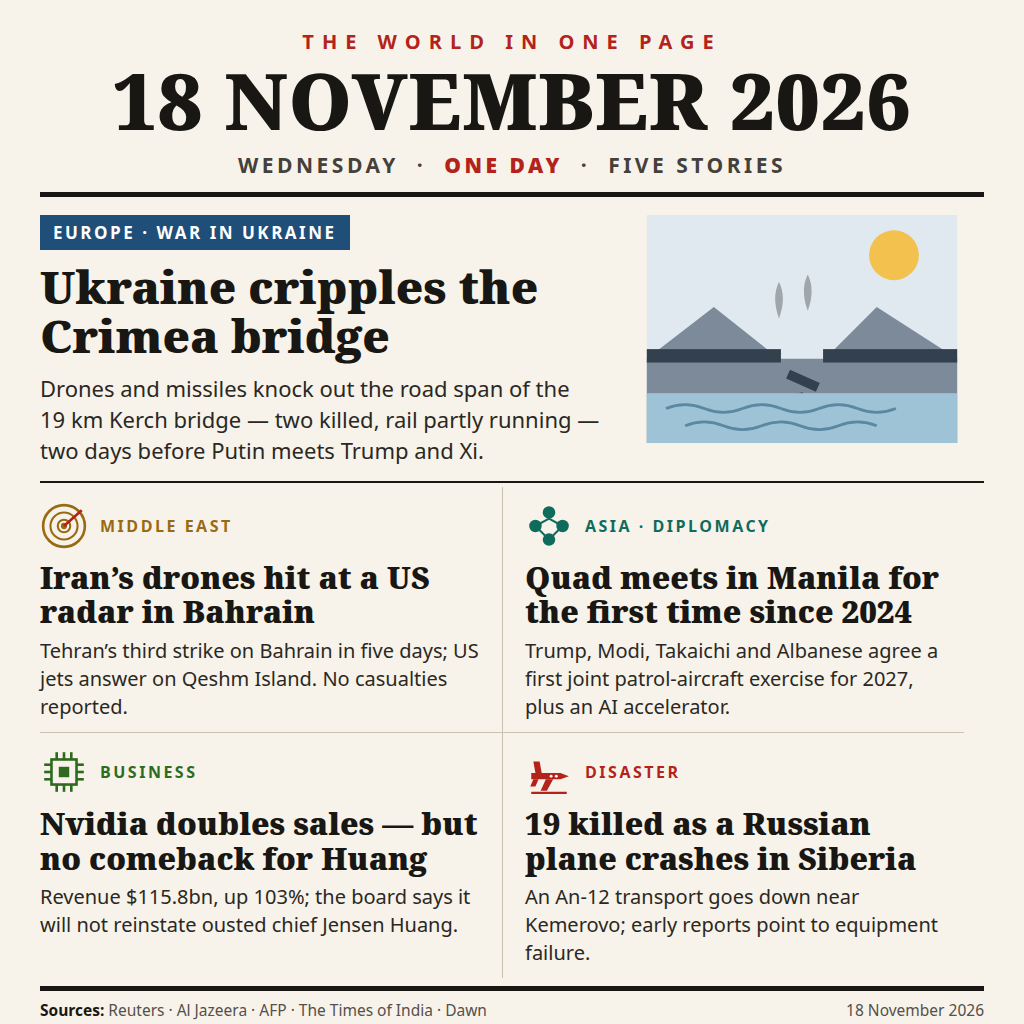
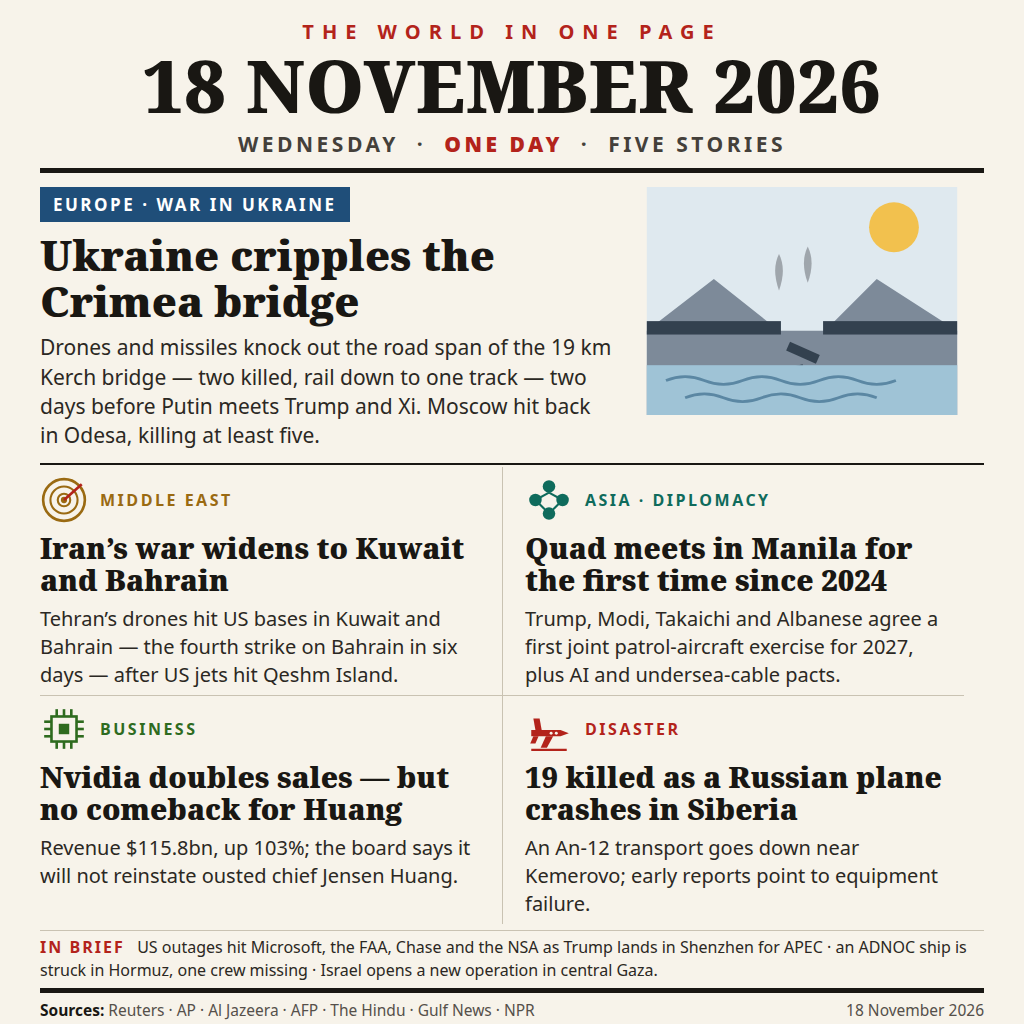
Refresh: full day of 18 November 2026 news
- Lead: Kerch bridge road span destroyed, rail down to one track;
  Russia hits back in Odesa, killing at least five
- Middle East: Iran's war widens to Kuwait and Bahrain (fourth
  strike on Bahrain in six days) after US jets hit Qeshm Island
- Quad: first joint patrol-aircraft exercise for 2027, plus AI and
  undersea-cable pacts
- In brief: US outages (Microsoft, FAA, Chase, NSA), Trump lands
  in Shenzhen for APEC, ADNOC ship struck in Hormuz, Israel opens
  a new operation in central Gaza
- Re-rendered entry.png (1024x1024, 212546 bytes) from build/news.html
  with headless Chrome; verified legible, no overlap, footer intact
- main.ts run twice: byte-identical outputs matching entry.png

Changed region(s): [[0.0312, 0.0, 0.9688, 1.0]]

diff --git a/build/news.html b/build/news.html
@@ -12,28 +12,28 @@
     font-family: "Noto Sans", "DejaVu Sans", sans-serif;
     -webkit-font-smoothing: antialiased;
   }
-  .page { width: 1024px; height: 1024px; padding: 28px 40px 20px 40px; }
+  .page { width: 1024px; height: 1024px; padding: 18px 40px 14px 40px; }
 
   /* ---------- masthead ---------- */
-  .masthead { text-align: center; border-bottom: 5px solid #191713; padding-bottom: 13px; }
+  .masthead { text-align: center; border-bottom: 5px solid #191713; padding-bottom: 10px; }
   .masthead .kicker {
     font-size: 20px; letter-spacing: 8px; font-weight: 700; color: #b3231b;
     text-transform: uppercase;
   }
   .masthead h1 {
     font-family: "Noto Serif", Georgia, serif;
-    font-size: 78px; line-height: 1.02; font-weight: 900; letter-spacing: 1px;
-    margin-top: 6px;
+    font-size: 72px; line-height: 1.02; font-weight: 900; letter-spacing: 1px;
+    margin-top: 4px;
   }
   .masthead .sub {
-    margin-top: 10px; font-size: 21px; letter-spacing: 3.5px; font-weight: 700;
+    margin-top: 8px; font-size: 21px; letter-spacing: 3.5px; font-weight: 700;
     text-transform: uppercase; color: #44403a;
   }
   .masthead .sub b { color: #b3231b; }
 
   /* ---------- lead story ---------- */
   .lead {
-    display: flex; margin-top: 18px; padding-bottom: 14px;
+    display: flex; margin-top: 14px; padding-bottom: 12px;
     border-bottom: 2px solid #191713;
   }
   .lead .text { width: 600px; padding-right: 26px; }
@@ -44,15 +44,15 @@
   }
   .lead h2 {
     font-family: "Noto Serif", Georgia, serif;
-    font-size: 46px; line-height: 1.08; font-weight: 900; margin-top: 12px;
+    font-size: 42px; line-height: 1.08; font-weight: 900; margin-top: 10px;
   }
-  .lead p { font-size: 22px; line-height: 1.42; margin-top: 12px; color: #2b2823; }
+  .lead p { font-size: 21px; line-height: 1.4; margin-top: 10px; color: #2b2823; }
   .lead .art { width: 324px; flex: none; }
   .lead .art svg { display: block; width: 324px; height: 228px; }
 
   /* ---------- grid of four ---------- */
-  .grid { display: flex; flex-wrap: wrap; margin-top: 4px; }
-  .cell { width: 462px; padding: 15px 20px 11px 0; }
+  .grid { display: flex; flex-wrap: wrap; margin-top: 2px; }
+  .cell { width: 462px; padding: 9px 20px 6px 0; }
   .cell:nth-child(even) { padding-left: 22px; border-left: 1.5px solid #c9c2b2; width: 462px; }
   .cell:nth-child(1), .cell:nth-child(2) { border-bottom: 1.5px solid #c9c2b2; }
   .cell .head { display: flex; align-items: center; }
@@ -62,7 +62,7 @@
   }
   .cell h3 {
     font-family: "Noto Serif", Georgia, serif;
-    font-size: 31px; line-height: 1.12; font-weight: 900; margin-top: 10px;
+    font-size: 29px; line-height: 1.12; font-weight: 900; margin-top: 8px;
   }
   .cell p { font-size: 20px; line-height: 1.4; margin-top: 8px; color: #2b2823; }
   .c-blue .tag { color: #1f4e79; }
@@ -71,9 +71,16 @@
   .c-green .tag { color: #2e6b1f; }
   .c-red .tag { color: #b3231b; }
 
+  /* ---------- in brief ---------- */
+  .brief {
+    margin-top: 6px; padding-top: 5px; border-top: 1.5px solid #c9c2b2;
+    font-size: 16px; line-height: 1.45; color: #2b2823;
+  }
+  .brief b { color: #b3231b; letter-spacing: 2px; }
+
   /* ---------- footer ---------- */
   .footer {
-    margin-top: 8px; padding-top: 8px; border-top: 5px solid #191713;
+    margin-top: 6px; padding-top: 6px; border-top: 5px solid #191713;
     font-size: 15.5px; color: #55504a; display: flex; justify-content: space-between;
   }
   .footer b { color: #191713; }
@@ -92,7 +99,7 @@
     <div class="text">
       <span class="tag">Europe &middot; War in Ukraine</span>
       <h2>Ukraine cripples the Crimea bridge</h2>
-      <p>Drones and missiles knock out the road span of the 19&nbsp;km Kerch bridge &mdash; two killed, rail partly running &mdash; two days before Putin meets Trump and Xi.</p>
+      <p>Drones and missiles knock out the road span of the 19&nbsp;km Kerch bridge &mdash; two killed, rail down to one track &mdash; two days before Putin meets Trump and Xi. Moscow hit back in Odesa, killing at least five.</p>
     </div>
     <div class="art">
       <svg viewBox="0 0 324 238" xmlns="http://www.w3.org/2000/svg">
@@ -124,8 +131,8 @@
         </svg>
         <span class="tag">Middle East</span>
       </div>
-      <h3>Iran&rsquo;s drones hit at a US radar in Bahrain</h3>
-      <p>Tehran&rsquo;s third strike on Bahrain in five days; US jets answer on Qeshm Island. No casualties reported.</p>
+      <h3>Iran&rsquo;s war widens to Kuwait and Bahrain</h3>
+      <p>Tehran&rsquo;s drones hit US bases in Kuwait and Bahrain &mdash; the fourth strike on Bahrain in six days &mdash; after US jets hit Qeshm Island.</p>
     </div>
 
     <div class="cell c-teal">
@@ -143,7 +150,7 @@
         <span class="tag">Asia &middot; Diplomacy</span>
       </div>
       <h3>Quad meets in Manila for the first time since 2024</h3>
-      <p>Trump, Modi, Takaichi and Albanese agree a first joint patrol-aircraft exercise for 2027, plus an AI accelerator.</p>
+      <p>Trump, Modi, Takaichi and Albanese agree a first joint patrol-aircraft exercise for 2027, plus AI and undersea-cable pacts.</p>
     </div>
 
     <div class="cell c-green">
@@ -188,8 +195,10 @@
     </div>
   </div>
 
+  <div class="brief"><b>IN BRIEF</b> &nbsp; US outages hit Microsoft, the FAA, Chase and the NSA as Trump lands in Shenzhen for APEC &middot; an ADNOC ship is struck in Hormuz, one crew missing &middot; Israel opens a new operation in central Gaza.</div>
+
   <div class="footer">
-    <span><b>Sources:</b> Reuters &middot; Al Jazeera &middot; AFP &middot; The Times of India &middot; Dawn</span>
+    <span><b>Sources:</b> Reuters &middot; AP &middot; Al Jazeera &middot; AFP &middot; The Hindu &middot; Gulf News &middot; NPR</span>
     <span>18 November 2026</span>
   </div>
 

diff --git a/README.md b/README.md
@@ -4,7 +4,7 @@
 [![rank](https://make.fun/badge/news-image-20261118/superhuhuhu/news-image-1118/rank.svg)](https://make.fun/bounty/news-image-20261118/leaderboard?utm_source=github&utm_medium=readme&utm_campaign=news-image-20261118)
 [![reward](https://make.fun/badge/news-image-20261118/superhuhuhu/news-image-1118/reward.svg)](https://make.fun/bounty/news-image-20261118?utm_source=github&utm_medium=readme&utm_campaign=news-image-20261118)
 
-A one-page editorial front page summing up Wednesday 18 November 2026's world news: Ukraine cripples the Crimea bridge, Iran's drones hit at a US radar in Bahrain, the Quad meets in Manila, Nvidia doubles sales while its board rules out Huang's return, and a Russian An-12 crashes in Siberia. Built by an AI agent for make.fun's "Sum up 18 November's world news in one image" bounty, $250 in USDC.
+A one-page editorial front page summing up Wednesday 18 November 2026's world news: Ukraine cripples the Crimea bridge as Russia hits back in Odesa, Iran's war widens to Kuwait and Bahrain, the Quad meets in Manila, Nvidia doubles sales while its board rules out Huang's return, and a Russian An-12 crashes in Siberia. Built by an AI agent for make.fun's "Sum up 18 November's world news in one image" bounty, $250 in USDC.
 
 ## Run it
 
